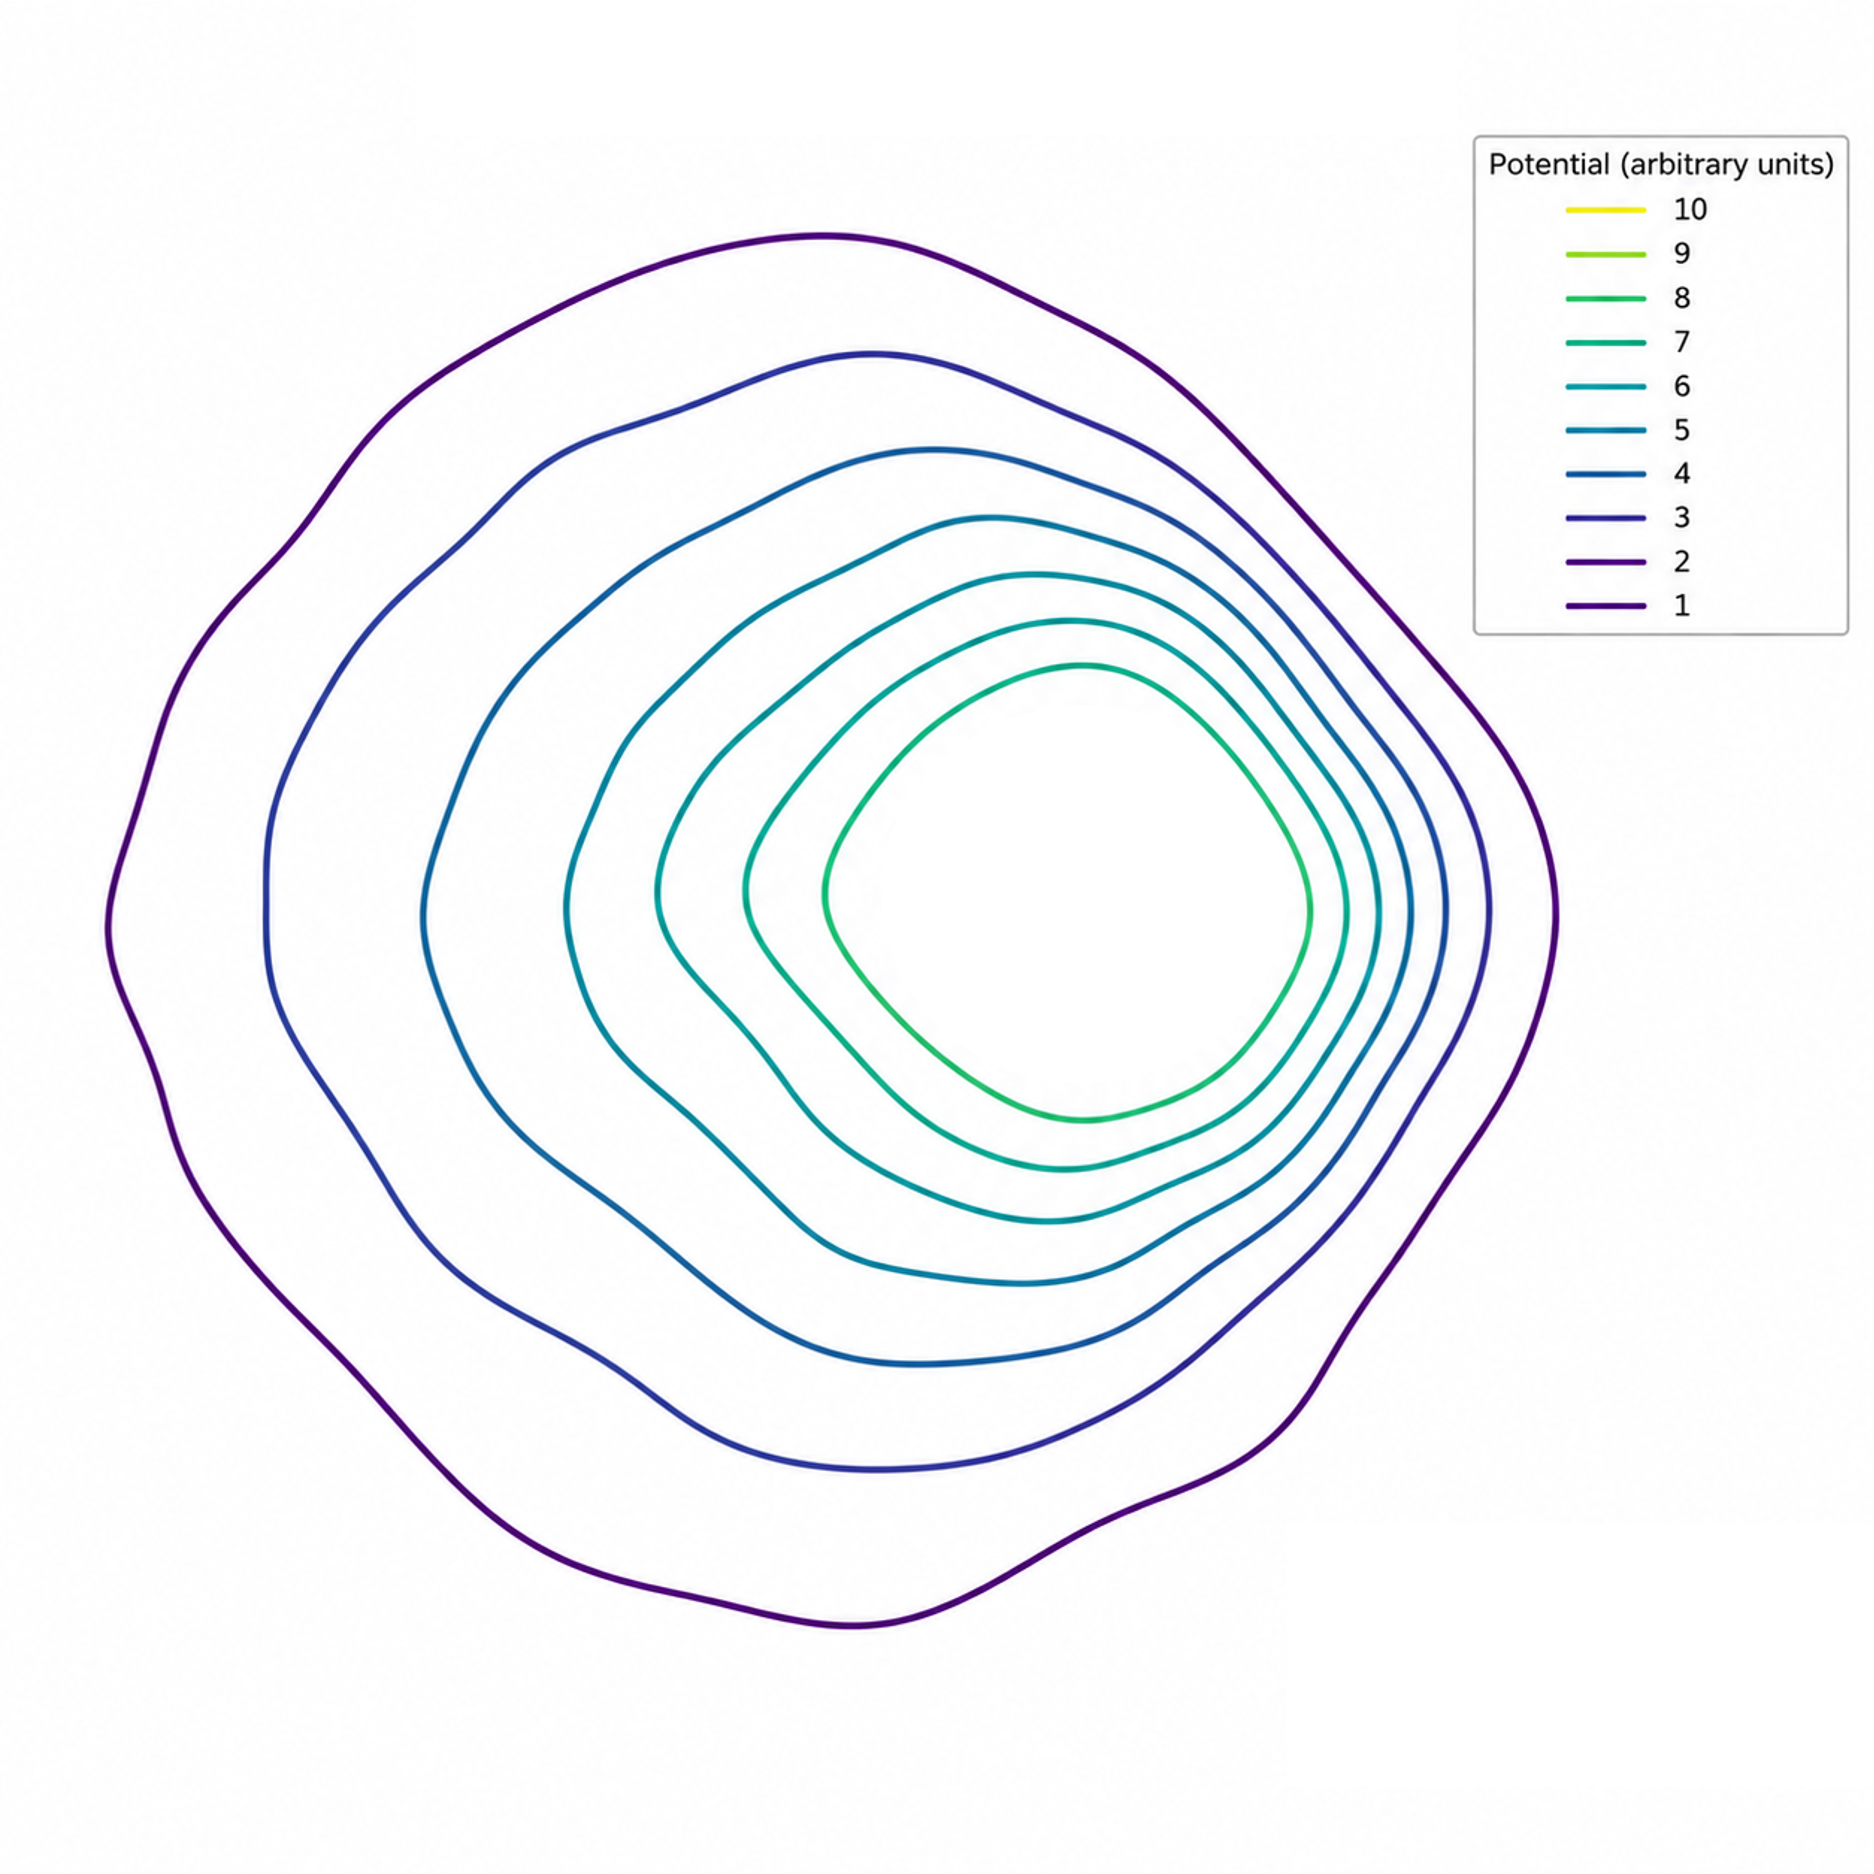
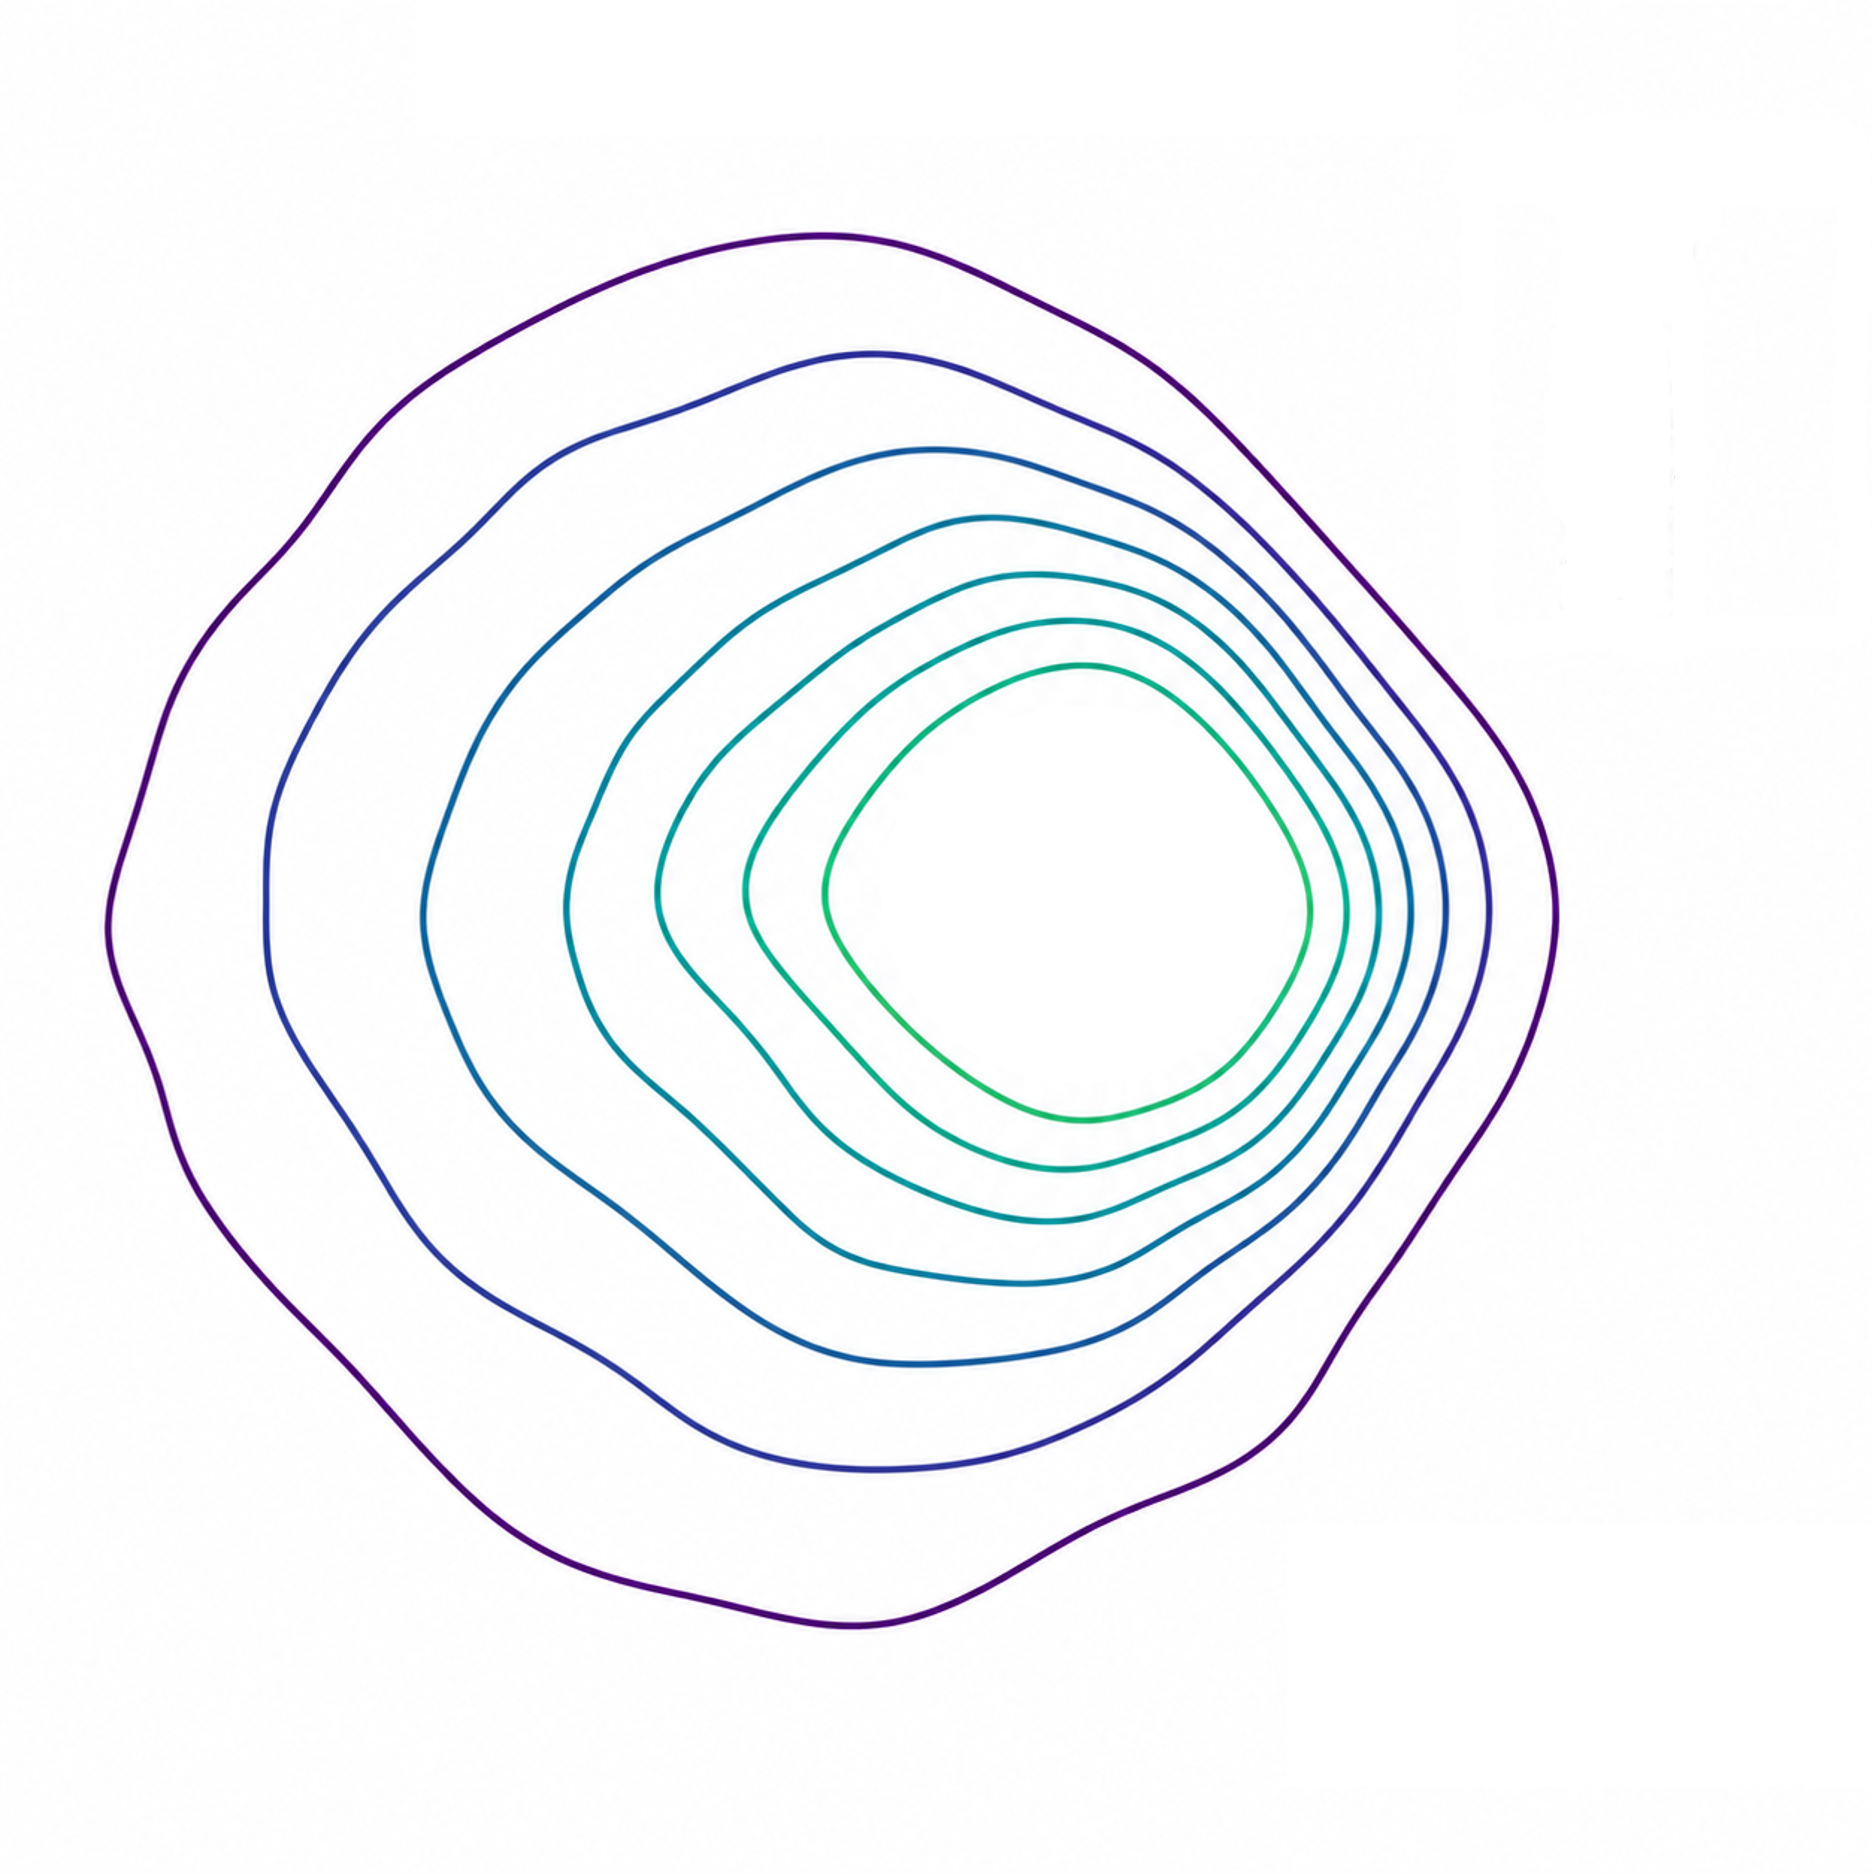
finished solutions for the lab 3 exersizes

Changed region(s): [[0.7737, 0.0619, 0.9904, 0.3404], [0.9594, 0.3095, 0.9904, 0.3404]]

diff --git a/book/2_potential_fields/labs/week3_gravity_and_potential/week3_exersizes_solutions.md b/book/2_potential_fields/labs/week3_gravity_and_potential/week3_exersizes_solutions.md
@@ -3,7 +3,7 @@
 ## Warm-ups
 
 ### 1. Equipotentials and field geometry
-A probe measured the following gravitational potential in a region of space around an asteroid. a) Sketch the corresponding field lines.
+A probe measured the following gravitational potential in a region of space around an asteroid (in arbitrary units). a) Sketch the corresponding field lines.
 b) On which side is the field strongest?
 ```{figure} figures/equipotentials_with_lines.jpg
 :width: 95%

diff --git a/book/2_potential_fields/labs/week3_gravity_and_potential/week3_exersizes.md b/book/2_potential_fields/labs/week3_gravity_and_potential/week3_exersizes.md
@@ -3,7 +3,7 @@
 ## Warm-ups
 
 ### 1. Equipotentials and field geometry
-A probe measured the following gravitational potential in a region of space around an asteroid. a) Sketch the corresponding field lines.
+A probe measured the following gravitational potential in a region of space around an asteroid (in arbitrary units). a) Sketch the corresponding field lines.
 b) On which side is the field strongest?
 ```{figure} figures/equipotentials.png
 :width: 50%
